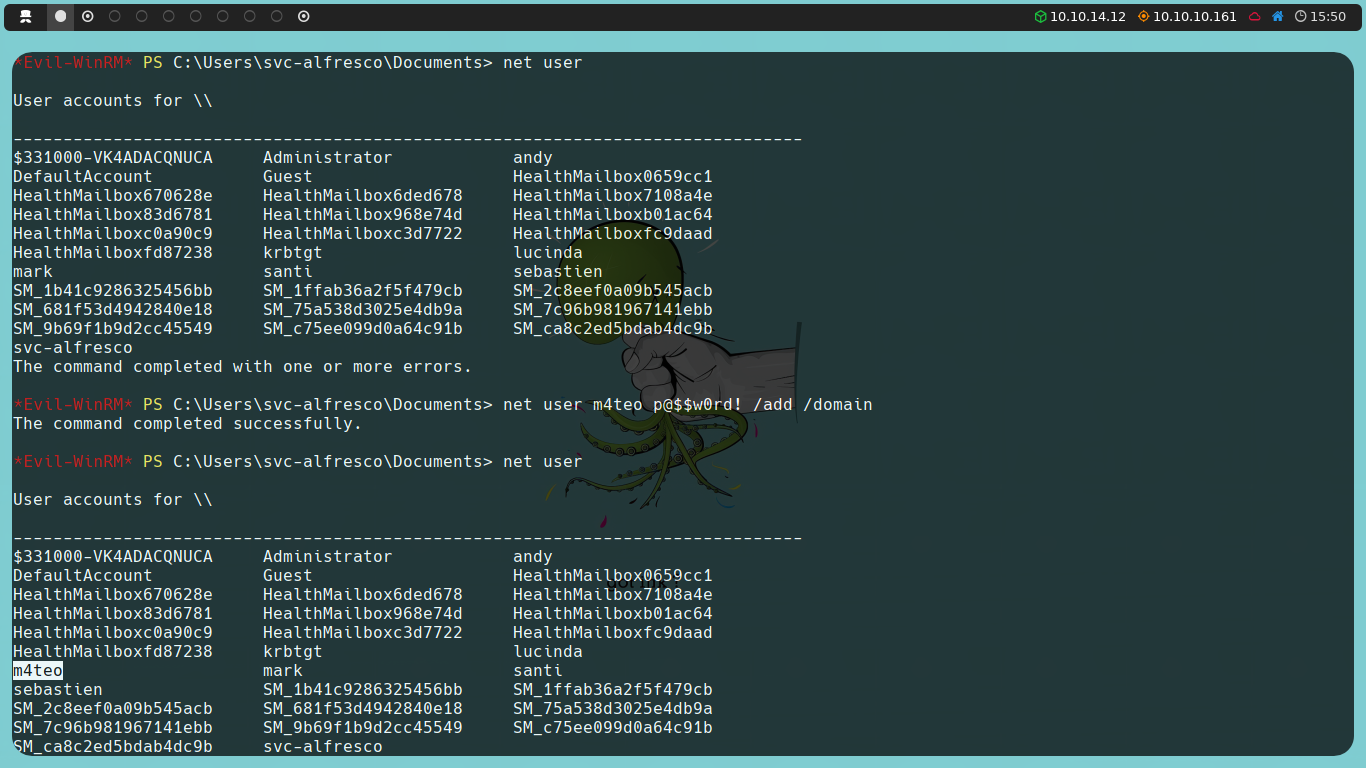
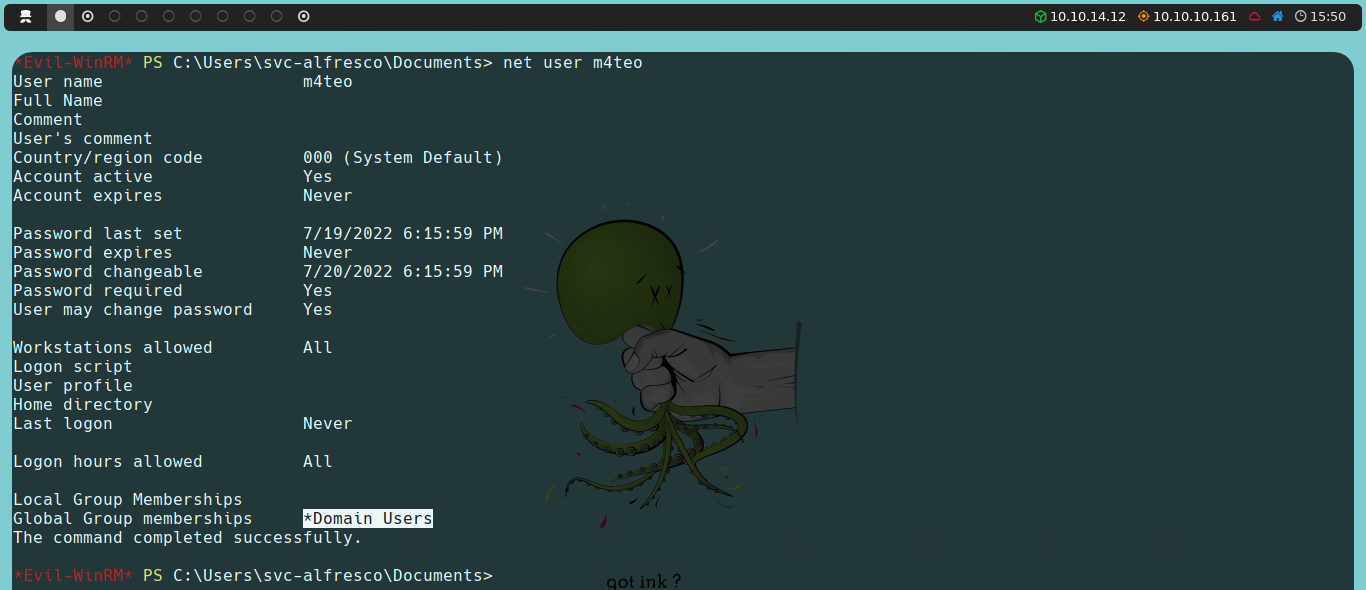
assets

Changed region(s): [[0.0, 0.0, 1.0, 1.0]]

diff --git a/_posts/_es/2024-07-08-Forest-Hack-The-Box.md b/_posts/_es/2024-07-08-Forest-Hack-The-Box.md
@@ -267,6 +267,18 @@ Si nos dirigimos al apartado _Analysis_, encontraremos una sección _Shortest Pa
 
 ![](https://raw.githubusercontent.com/MateoNitro550/MateoNitro550.github.io/main/assets/2024-07-08-Forest-Hack-The-Box/25.png){:class="blog-image" onclick="expandImage(this)"}
 
+Podemos observar que `svc-alfresco` es miembro del grupo _Service Accounts_, el cual es miembro del grupo _Privileged IT Accounts_, que a su vez es miembro del grupo _Account Operators_. Además, el grupo _Account Operators_ tiene permisos _GenericAll_ sobre el grupo _Exchange Windows Permissions_, lo que les da control total sobre este grupo. El grupo _Exchange Windows Permissions_ tiene permisos _WriteDacl_ sobre el dominio, lo que permite modificar la lista de control de acceso discrecional (_DACL_) del dominio.
+
+Vamos por partes, el grupo _Account Operators_ otorga privilegios limitados de creación de cuentas a un usuario. Por lo tanto, el usuario `svc-alfresco` puede crear otras cuentas en el dominio. Por otra parte, el grupo _Account Operators_ tiene permisos _GenericAll_ sobre el grupo _Exchange Windows Permissions_, lo que significa que `svc-alfresco` puede modificar los permisos del grupo _Exchange Windows Permissions_. Finalmente, el grupo _Exchange Windows Permissions_ tiene permisos _WriteDacl_ sobre el dominio. Abusaremos de esto para otorgarnos privilegios de `DCSync`.
+
+El ataque `DCSync` simula el comportamiento de un _Domain Controller_ y solicita a otros _Domain Controllers_ que repliquen información utilizando el protocolo _Directory Replication Service Remote Protocol_ (_MS-DRSR_). Debido a que este protocolo es esencial para el funcionamiento de _Active Directory_, no se lo puede desactivar. Realizando este ataque, podemos replicar la información del dominio y dumpear todos los hashes del mismo.
+
+Dicho todo esto, lo primero que haremos será aprovechar que `svc-alfresco` es miembro del grupo _Account Operators_, y crear un nuevo usuario. Para ello, haremos lo siguiente:
+
+```bash
+net user nombreDeUsuario contraseña /add /domain
+```
+
 ![](https://raw.githubusercontent.com/MateoNitro550/MateoNitro550.github.io/main/assets/2024-07-08-Forest-Hack-The-Box/26.png){:class="blog-image" onclick="expandImage(this)"}
 
 ![](https://raw.githubusercontent.com/MateoNitro550/MateoNitro550.github.io/main/assets/2024-07-08-Forest-Hack-The-Box/27.png){:class="blog-image" onclick="expandImage(this)"}

diff --git a/_posts/_es/2022-02-28-SecNotes-Hack-The-Box.md b/_posts/_es/2022-02-28-SecNotes-Hack-The-Box.md
@@ -252,7 +252,7 @@ Lo que haremos será cambiar esta petición que se está tramitando por POST, a 
 
 ![](https://raw.githubusercontent.com/MateoNitro550/MateoNitro550.github.io/main/assets/2022-02-28-SecNotes-Hack-The-Box/21.png){:class="blog-image" onclick="expandImage(this)"} 
 
-Para ello, desde `Burp Suite`, habiendo capturado la petición del cambio de contraseña, simplemente haremos _click derecho_, _Change request method_, y copiaremos la nueva petición por GET.
+Para ello, desde `Burp Suite`, habiendo capturado la petición del cambio de contraseña, simplemente haremos _clic derecho_, _Change request method_, y copiaremos la nueva petición por GET.
 
 ![](https://raw.githubusercontent.com/MateoNitro550/MateoNitro550.github.io/main/assets/2022-02-28-SecNotes-Hack-The-Box/22.png){:class="blog-image" onclick="expandImage(this)"} 
 
